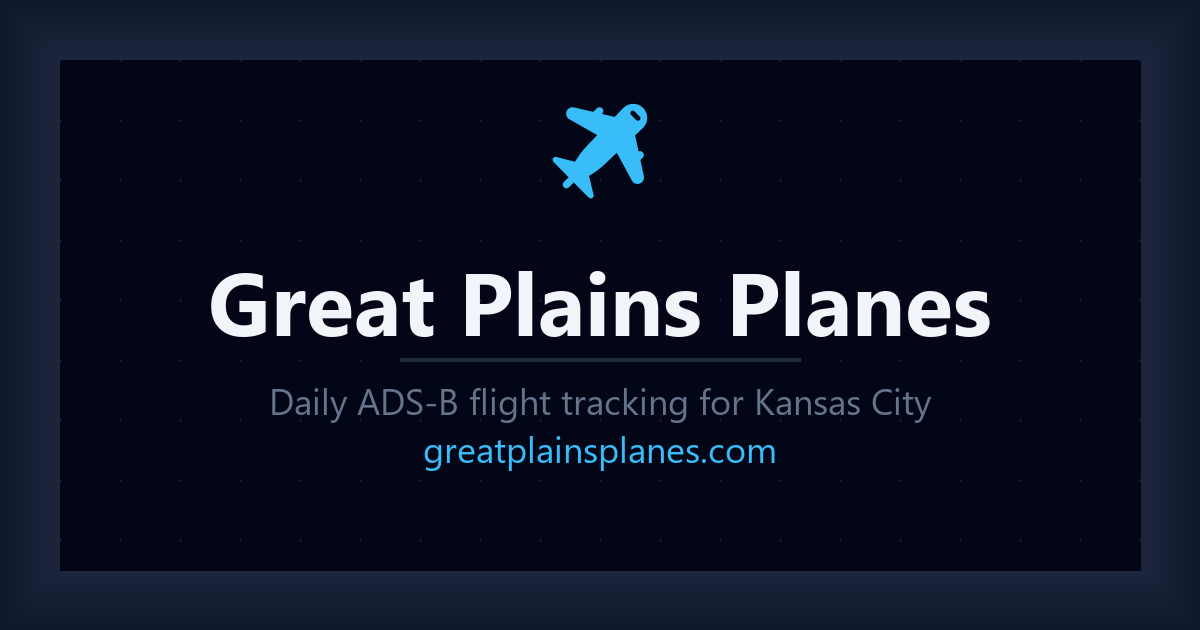
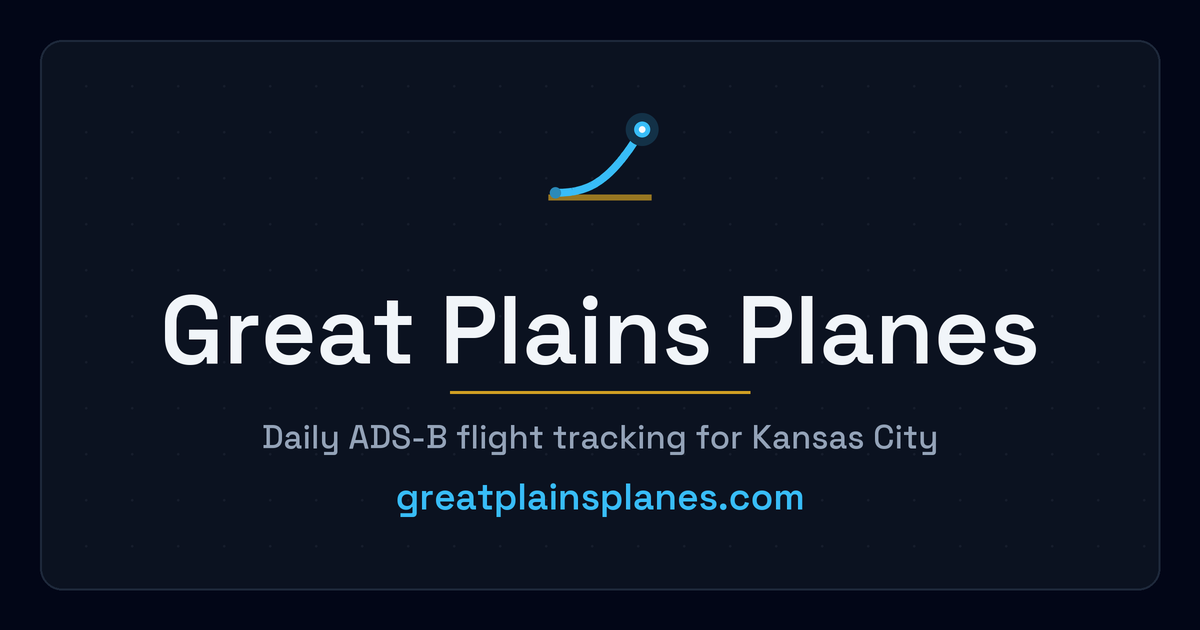
Update OG/social preview to Track & Fix brand
Replace the old emoji-and-generic-font preview.png with a 1200x630 image built
from the real brand system (Track & Fix mark + Space Grotesk wordmark), generated
by adsb_digest/make_preview.py. Bump og:image/twitter:image to ?v=2 so scrapers
re-fetch the new asset.

Changed region(s): [[0.0, 0.0302, 0.9867, 0.9952], [0.1233, 0.4222, 0.8633, 0.8143], [0.4317, 0.1508, 0.555, 0.3317]]

diff --git a/index.html b/index.html
@@ -12,13 +12,13 @@
   <meta property="og:title"       content="Great Plains Planes">
   <meta property="og:description" content="A daily email digest of real aircraft spotted over Kansas City — routes, altitudes, carriers, and more. Free to subscribe.">
   <meta property="og:site_name"   content="Great Plains Planes">
-  <meta property="og:image"       content="https://greatplainsplanes.com/preview.png">
+  <meta property="og:image"       content="https://greatplainsplanes.com/preview.png?v=2">
   <meta property="og:image:width"  content="1200">
   <meta property="og:image:height" content="630">
   <meta name="twitter:card"        content="summary_large_image">
   <meta name="twitter:title"       content="Great Plains Planes">
   <meta name="twitter:description" content="A daily email digest of real aircraft spotted over Kansas City.">
-  <meta name="twitter:image"       content="https://greatplainsplanes.com/preview.png">
+  <meta name="twitter:image"       content="https://greatplainsplanes.com/preview.png?v=2">
   <style>
     * { box-sizing: border-box; margin: 0; padding: 0; }
 
